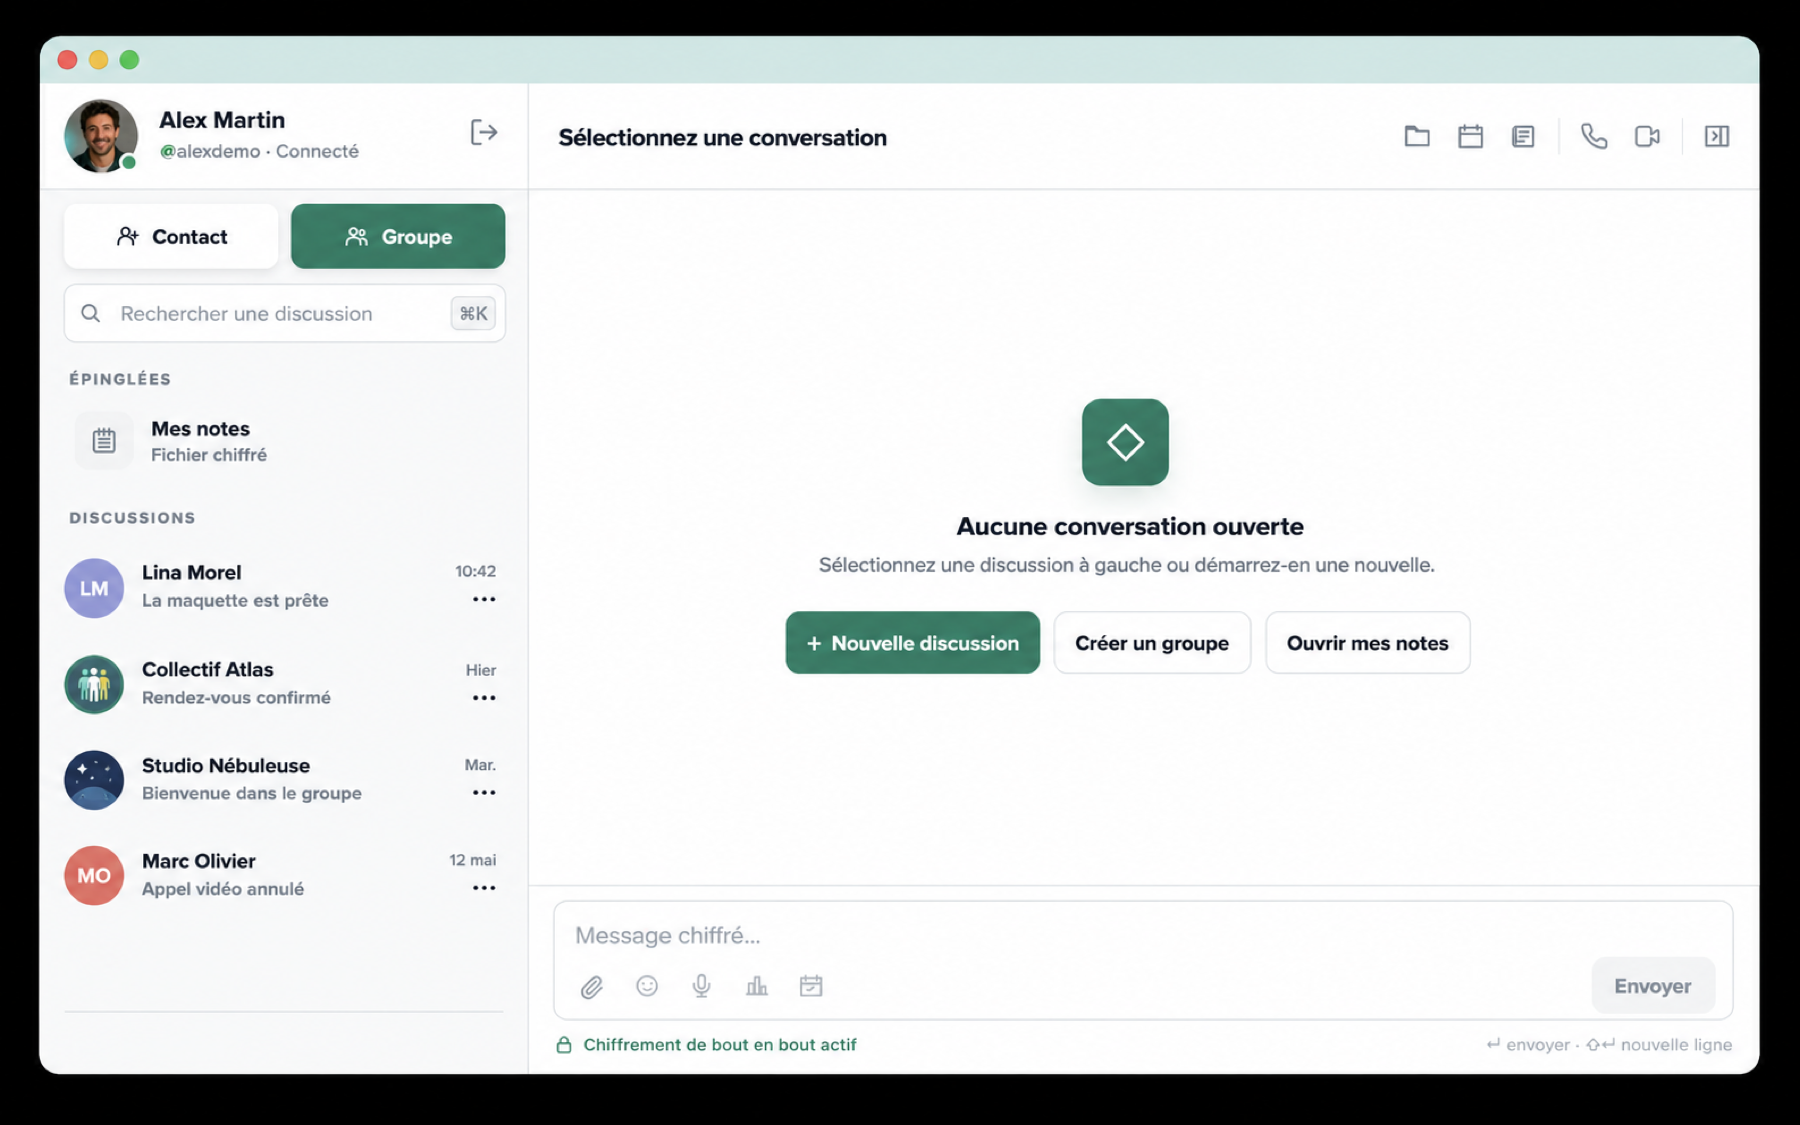
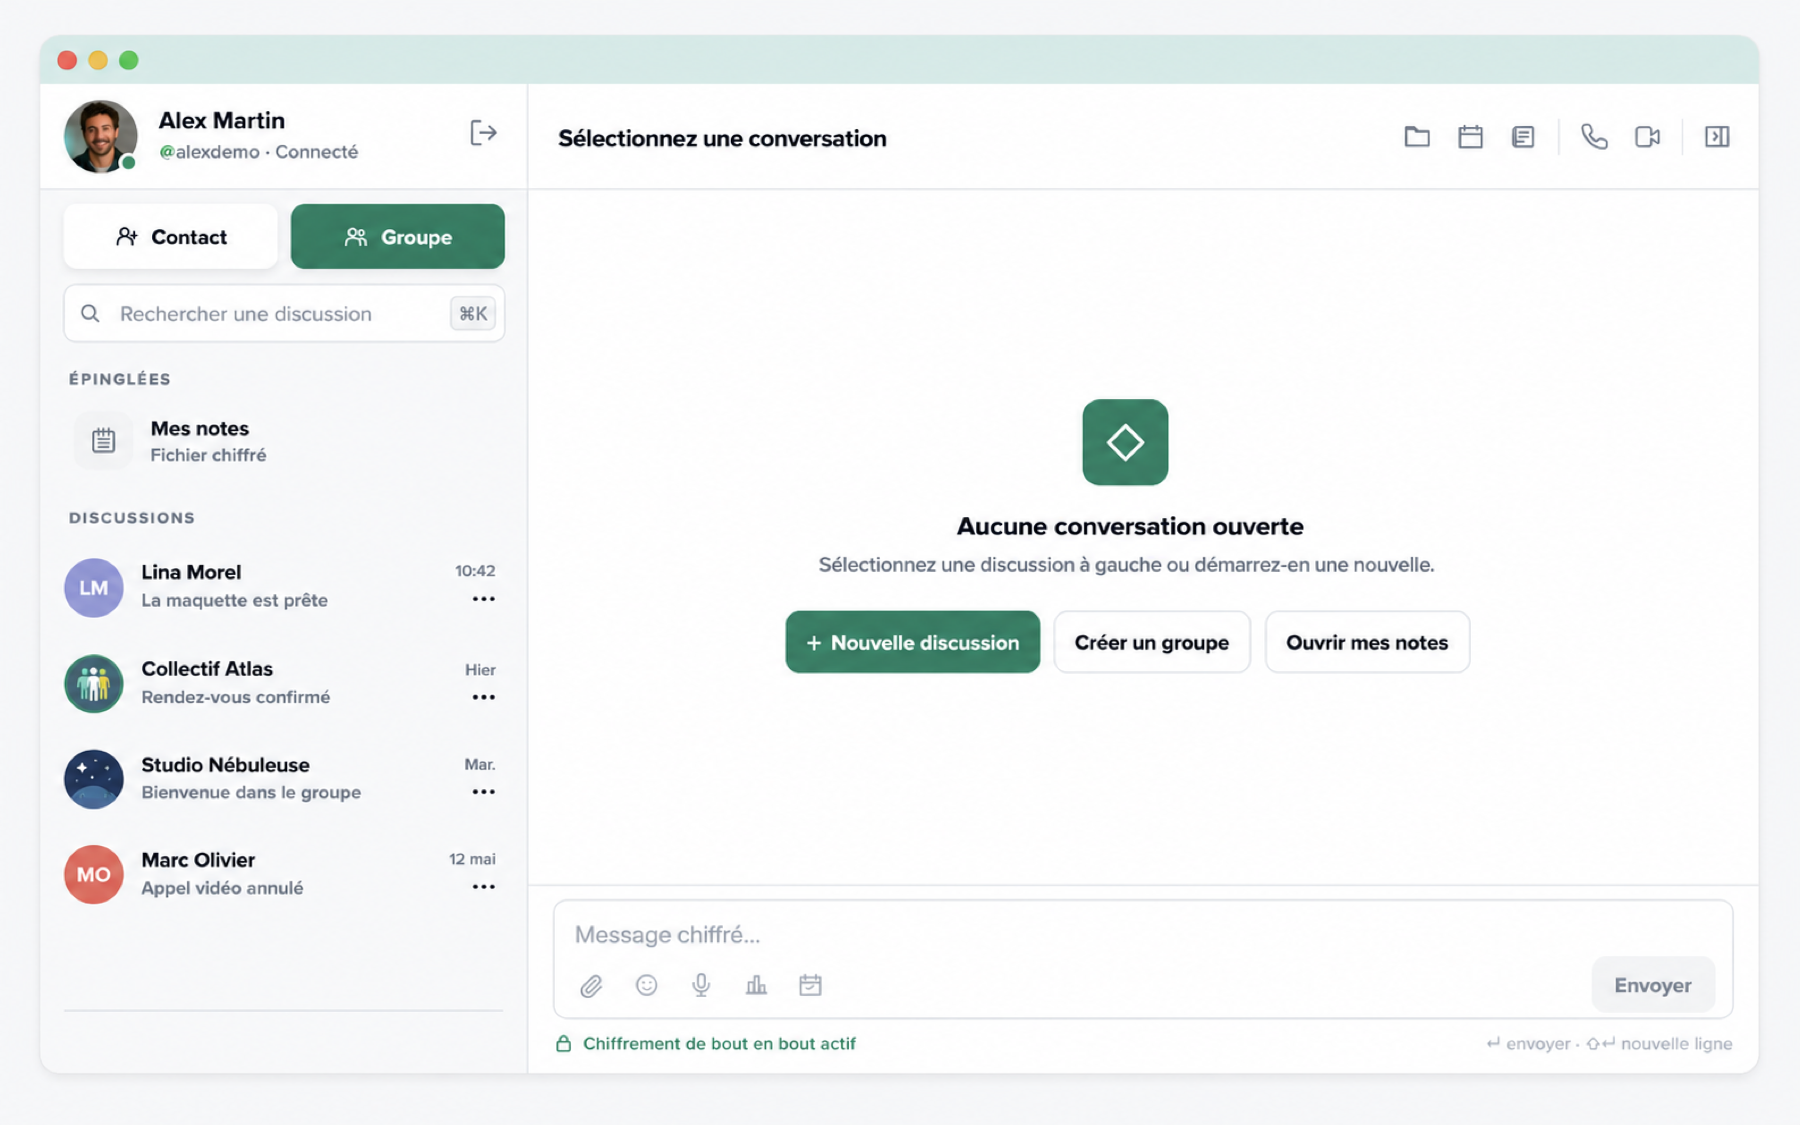
Corriger la présentation de Community 1.0.28

diff --git a/README.md b/README.md
@@ -32,7 +32,7 @@ Elle inclut :
 
 ## Comparatif Community et Enterprise
 
-L’édition Enterprise reprend toutes les fonctionnalités de Community et ajoute les outils d’administration, d’exploitation et de fédération destinés aux organisations.
+L’édition Enterprise reprend toutes les fonctionnalités de Community et ajoute les outils d’administration, d’exploitation et de fédération destinés aux organisations. Elle permet notamment de protéger l’accès aux menus **Administration** et **Gestion** par adresse IP : toutes les IP, uniquement les IP locales, ou une liste précise d’adresses et de réseaux peuvent être autorisés.
 
 | Domaine | Fonctionnalité | Community | Enterprise |
 | --- | --- | --- | --- |
@@ -81,6 +81,7 @@ L’édition Enterprise reprend toutes les fonctionnalités de Community et ajou
 | **Administration** | Conditions d’utilisation | ✅ Acceptation obligatoire | ✅ Texte et activation administrables |
 | **Administration** | Rôles administrateur et gestionnaire | — | ✅ |
 | **Administration** | Console d’administration et panneau gestionnaire | — | ✅ |
+| **Administration** | Protection de l’accès Administration et Gestion par IP | — | ✅ Toutes les IP, IP locales ou liste IPv4/IPv6 |
 | **Administration** | Promotion, rétrogradation, bannissement et débannissement | — | ✅ |
 | **Administration** | Révocation administrative des sessions | — | ✅ |
 | **Administration** | Modération par métadonnées sans accès au contenu clair | — | ✅ |
@@ -108,6 +109,7 @@ Le périmètre des appels et groupes fédérés est détaillé dans [Community e
 - **Ouverture des conversations sans scintillement** : la liste des messages n’apparaît qu’une fois les messages, pièces jointes et aperçus nécessaires chargés ; aucun état vide ni libellé de chargement intermédiaire ne s’affiche.
 - **Actions visuelles épurées** : les fonds ovales ou circulaires superflus ont été retirés des actions de message, des réactions et des boutons de fermeture dans les thèmes clair et sombre.
 - **Écran de démarrage mobile corrigé** : le motif Vibration retrouve sa forme simple et sa couleur adaptée, notamment blanche en thème sombre.
+- **Sécurité Enterprise par IP** : l’accès aux menus Administration et Gestion peut autoriser toutes les IP, uniquement les IP locales, ou une liste précise d’adresses et de réseaux IPv4/IPv6.
 - **Aperçu Community anonymisé** : l’illustration du projet reprend la nouvelle interface avec un profil et des conversations entièrement fictifs.
 - **Cache PWA v412** : les scripts, styles et traductions sont renouvelés ensemble pour garantir le déploiement immédiat de cette version.
 
